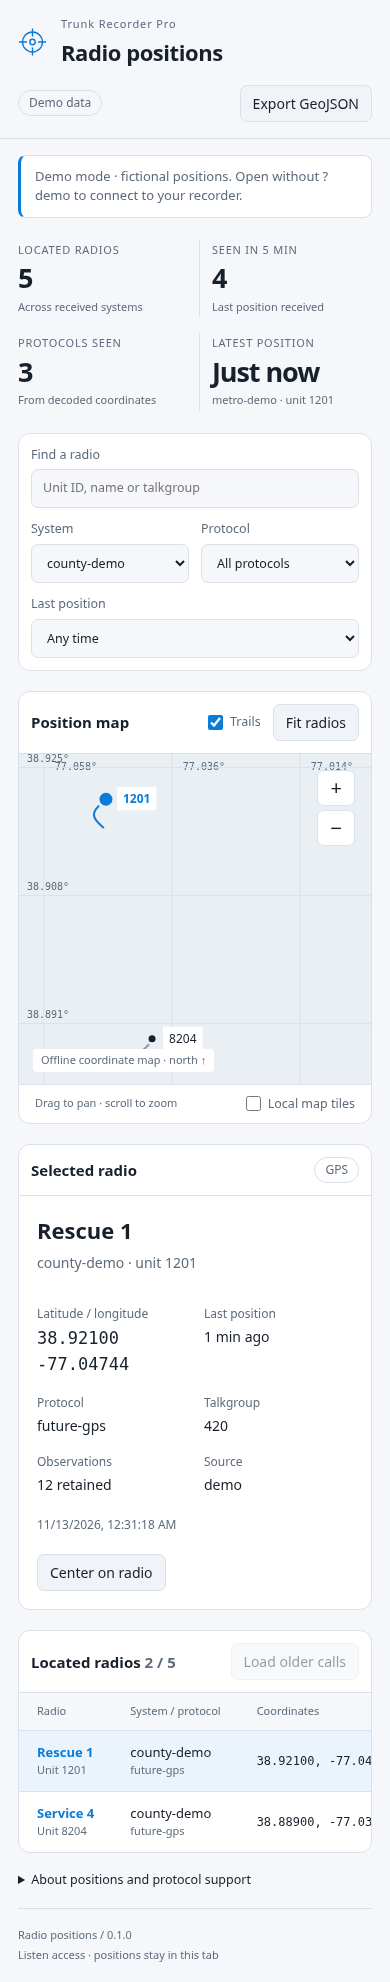
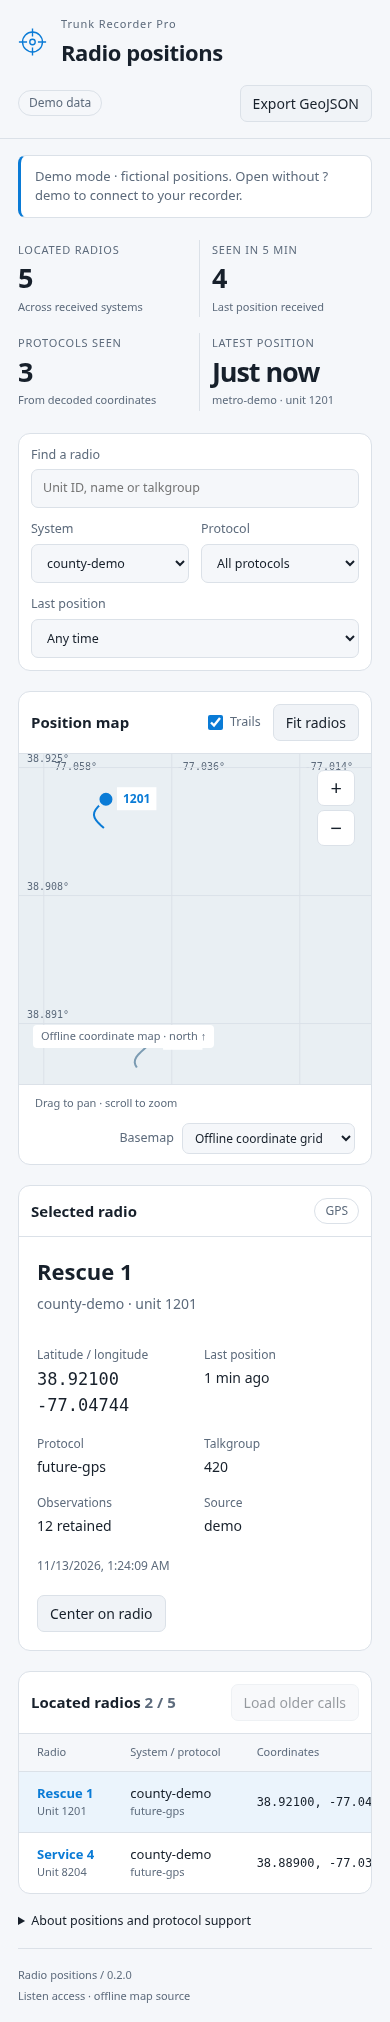
Load OpenStreetMap basemap by default with offline fallback

diff --git a/index.html b/index.html
@@ -4,6 +4,7 @@
   <meta charset="utf-8">
   <meta name="viewport" content="width=device-width, initial-scale=1">
   <meta name="color-scheme" content="dark light">
+  <meta name="referrer" content="strict-origin-when-cross-origin">
   <title>Radio positions · Trunk Recorder Pro</title>
   <link rel="stylesheet" href="./style.css">
 </head>
@@ -29,8 +30,8 @@
     <div class="workspace">
       <section class="map-panel" aria-label="Position map">
         <div class="panel-head"><h2>Position map</h2><div class="actions"><label class="toggle"><input id="trails" type="checkbox" checked>Trails</label><button id="fit">Fit radios</button></div></div>
-        <div class="map-wrap"><canvas id="map" tabindex="0" aria-label="GPS coordinate map. Drag to pan; plus and minus to zoom; arrow keys to pan. Select radios from the list below."></canvas><div id="map-empty" class="map-empty"><div class="crosshair">⌖</div><h2>No positions yet</h2><p>GPS fixes from live logs and recorded calls will appear here.</p></div><div class="zoom"><button id="zoom-in" aria-label="Zoom in">+</button><button id="zoom-out" aria-label="Zoom out">−</button></div><span class="map-label">Offline coordinate map · north ↑</span></div>
-        <div class="map-footer"><span>Drag to pan · scroll to zoom</span><label class="toggle"><input id="tiles" type="checkbox">Local map tiles</label></div>
+        <div class="map-wrap"><canvas id="map" tabindex="0" aria-label="GPS coordinate map. Drag to pan; plus and minus to zoom; arrow keys to pan. Select radios from the list below."></canvas><div id="map-empty" class="map-empty"><div class="crosshair">⌖</div><h2>No positions yet</h2><p>GPS fixes from live logs and recorded calls will appear here.</p></div><div class="zoom"><button id="zoom-in" aria-label="Zoom in">+</button><button id="zoom-out" aria-label="Zoom out">−</button></div><span id="map-label" class="map-label" role="status">OpenStreetMap · waiting for positions</span><a id="attribution" class="map-attribution" href="https://www.openstreetmap.org/copyright" target="_blank" rel="noopener">© OpenStreetMap contributors</a></div>
+        <div class="map-footer"><span>Drag to pan · scroll to zoom</span><div class="actions"><button id="retry-tiles" hidden>Retry tiles</button><label class="basemap-choice">Basemap<select id="basemap"><option value="osm">OpenStreetMap (online)</option><option value="none">Offline coordinate grid</option><option value="local">Local map tiles</option></select></label></div></div>
       </section>
       <aside class="detail-panel"><div class="panel-head"><h2>Selected radio</h2><span class="chip">GPS</span></div><div id="details" class="details"><p class="muted">Select a radio to see its coordinates and recent trail.</p></div></aside>
     </div>
@@ -38,8 +39,8 @@
       <div class="table-scroll"><table><thead><tr><th>Radio</th><th>System / protocol</th><th>Coordinates</th><th>Talkgroup</th><th>Last position</th><th>Source</th></tr></thead><tbody id="radios"></tbody></table></div>
       <p id="list-empty" class="empty">No GPS positions received. Keep the recorder running on a system that sends GPS.</p>
     </section>
-    <details class="help"><summary>About positions and protocol support</summary><p>Only coordinates actually decoded by the recorder are shown. The current recorder decodes Motorola P25 Phase 1 and L3Harris P25 Phase 1/2 GPS. Other protocols appear automatically when their decoders provide coordinates. An unknown protocol label does not prevent a valid fix from appearing.</p><p>Live positions use the recorder’s position log. Their times are approximate; recorded positions use the source transmission time. Trails hold up to 200 observations per radio and 1,000 radios in this tab. Closing or reloading clears this session; the recorder’s recent call history is loaded again on connection.</p><p>The map works offline without street imagery. To add a street basemap, place licensed XYZ PNG tiles at <code>tiles/{z}/{x}/{y}.png</code> in this folder, then enable Local map tiles. Missing tiles leave the coordinate grid visible. No external map service is contacted.</p></details>
-    <footer><span>Radio positions <span class="muted">/ 0.1.0</span></span><span id="diagnostics">Listen access · positions stay in this tab</span></footer>
+    <details class="help"><summary>About positions and protocol support</summary><p>Only coordinates actually decoded by the recorder are shown. The current recorder decodes Motorola P25 Phase 1 and L3Harris P25 Phase 1/2 GPS. Other protocols appear automatically when their decoders provide coordinates. An unknown protocol label does not prevent a valid fix from appearing.</p><p>Live positions use the recorder’s position log. Their times are approximate; recorded positions use the source transmission time. Trails hold up to 200 observations per radio and 1,000 radios in this tab. Closing or reloading clears this session; the recorder’s recent call history is loaded again on connection.</p><p>OpenStreetMap street tiles load automatically with no account or API key. Map data is © OpenStreetMap contributors, available under the ODbL. The tile service receives your IP address and the map area you view; radio IDs, names and GPS records are not sent. Choose Offline coordinate grid to stop online tile requests, or Local map tiles to use your own licensed imagery. If online tiles fail, the coordinate grid and radios remain usable. <a href="https://operations.osmfoundation.org/policies/tiles/" target="_blank" rel="noopener">Tile usage policy</a> · <a href="https://www.openstreetmap.org/fixthemap" target="_blank" rel="noopener">Report a map issue</a></p></details>
+    <footer><span>Radio positions <span class="muted">/ 0.2.0</span></span><span id="diagnostics">Listen access · positions stay in this tab</span></footer>
   </main>
   <script type="module" src="./app.js"></script>
 </body>

diff --git a/map.js b/map.js
@@ -1,4 +1,5 @@
 import { unitKey } from "./positions.js";
+import { basemapMode, tileUrl } from "./basemaps.js";
 
 export function project(lon, lat) {
   const a = Math.max(-85.05112878, Math.min(85.05112878, lat)) * Math.PI / 180;
@@ -10,7 +11,7 @@ export function unproject(x, y) {
 const wrap = (x) => x - Math.round(x);
 
 export class PositionMap {
-  constructor(canvas, onSelect) {
+  constructor(canvas, onSelect, onBasemapStatus = () => {}) {
     this.canvas = canvas;
     this.ctx = canvas.getContext("2d");
     this.center = [.5, .5];
@@ -18,6 +19,8 @@ export class PositionMap {
     this.points = [];
     this.tiles = new Map();
     this.onSelect = onSelect;
+    this.onBasemapStatus = onBasemapStatus;
+    this.basemap = "osm";
     new ResizeObserver(() => this.draw()).observe(canvas);
     matchMedia("(prefers-color-scheme: light)").addEventListener("change", () => this.draw());
     canvas.addEventListener("wheel", (e) => { e.preventDefault(); this.zoomBy(e.deltaY > 0 ? -1 : 1); }, { passive: false });
@@ -81,8 +84,17 @@ export class PositionMap {
       Math.max(100, this.height - 120) / (256 * Math.max(maxY - minY, .00001)))))));
     this.draw();
   }
-  update(points, store, selected, trails, localTiles) {
-    Object.assign(this, { points, store, selected, trails, localTiles });
+  update(points, store, selected, trails, basemap) {
+    Object.assign(this, { points, store, selected, trails, basemap: basemapMode(basemap) });
+    this.draw();
+  }
+  scheduleDraw() {
+    if (this.drawPending) return;
+    this.drawPending = true;
+    requestAnimationFrame(() => { this.drawPending = false; this.draw(); });
+  }
+  retryFailedTiles() {
+    for (const [key, img] of this.tiles) if (img.failed) this.tiles.delete(key);
     this.draw();
   }
   draw() {
@@ -96,18 +108,20 @@ export class PositionMap {
     const style = getComputedStyle(document.documentElement);
     const color = (name) => style.getPropertyValue(name).trim();
     c.fillStyle = color("--map-bg"); c.fillRect(0, 0, this.width, this.height);
-    if (this.localTiles) this.drawTiles();
+    const tiles = this.basemap !== "none" && this.points.length ? this.drawTiles() : { ready: 0, failed: 0, loading: 0 };
+    this.onBasemapStatus({ mode: this.basemap, ...tiles });
     c.strokeStyle = color("--line"); c.lineWidth = 1;
     c.fillStyle = color("--muted"); c.font = "10px ui-monospace, monospace";
     // Grid stays geographically anchored while panning and zooming.
     const step = 2 ** Math.ceil(Math.log2(100 / this.scale));
     const left = this.center[0] - this.width / 2 / this.scale, top = this.center[1] - this.height / 2 / this.scale;
-    for (let x = Math.ceil(left / step) * step; x <= left + this.width / this.scale; x += step) {
+    // The coordinate grid fills in when imagery is absent.
+    if (!tiles.ready) for (let x = Math.ceil(left / step) * step; x <= left + this.width / this.scale; x += step) {
       const px = (x - left) * this.scale;
       c.beginPath(); c.moveTo(px, 0); c.lineTo(px, this.height); c.stroke();
       c.fillText(`${unproject(x, .5)[0].toFixed(this.zoom > 10 ? 3 : 1)}°`, px + 5, 16);
     }
-    for (let y = Math.ceil(top / step) * step; y <= top + this.height / this.scale; y += step) {
+    if (!tiles.ready) for (let y = Math.ceil(top / step) * step; y <= top + this.height / this.scale; y += step) {
       if (y < 0 || y > 1) continue;
       const py = (y - top) * this.scale;
       c.beginPath(); c.moveTo(0, py); c.lineTo(this.width, py); c.stroke();
@@ -141,19 +155,30 @@ export class PositionMap {
   }
   drawTiles() {
     const c = this.ctx, n = 2 ** this.zoom;
+    const result = { ready: 0, failed: 0, loading: 0 };
     const left = this.center[0] * n - this.width / 512, top = this.center[1] * n - this.height / 512;
     for (let x = Math.floor(left); x < left + this.width / 256; x++) for (let y = Math.floor(top); y < top + this.height / 256; y++) {
       if (y < 0 || y >= n) continue;
-      const key = `${this.zoom}/${((x % n) + n) % n}/${y}`;
+      const key = tileUrl(this.basemap, this.zoom, x, y);
+      if (!key) continue;
       if (!this.tiles.has(key)) {
         const img = new Image();
         this.tiles.set(key, img);
-        img.onload = () => { if (this.localTiles) this.draw(); };
-        img.src = `./tiles/${key}.png`;
+        // Normal browser caching honors HTTP cache headers. Never cache-bust,
+        // send no-cache headers, or offer an area download mode.
+        img.referrerPolicy = "strict-origin-when-cross-origin";
+        img.onload = () => this.scheduleDraw();
+        img.onerror = () => { img.failed = true; this.scheduleDraw(); };
+        img.src = key;
         if (this.tiles.size > 256) this.tiles.delete(this.tiles.keys().next().value);
       }
       const img = this.tiles.get(key);
-      if (img.complete && img.naturalWidth) c.drawImage(img, (x - left) * 256, (y - top) * 256, 256, 256);
+      if (img.complete && img.naturalWidth) {
+        c.drawImage(img, (x - left) * 256, (y - top) * 256, 256, 256);
+        result.ready++;
+      } else if (img.failed) result.failed++;
+      else result.loading++;
     }
+    return result;
   }
 }

diff --git a/app.js b/app.js
@@ -1,13 +1,25 @@
 import { PositionStore, unitKey, recordedPositions, livePositions } from "./positions.js";
 import { additionalAdapters } from "./adapters.js";
 import { PositionMap } from "./map.js";
+import { BASEMAPS, readBasemapPreference, saveBasemapPreference } from "./basemaps.js";
 
 const $ = (id) => document.getElementById(id);
 const store = new PositionStore({ adapters: [recordedPositions, livePositions, ...additionalAdapters] });
 const demo = new URLSearchParams(location.search).has("demo");
 let rec, selected, visible = [], nextCursor, pending, requestId = 10000, scheduled = false;
 let error = "", fitted = false;
-const map = new PositionMap($("map"), select);
+let storage;
+try { storage = window.localStorage; } catch { /* Preferences are optional. */ }
+$("basemap").value = readBasemapPreference(storage);
+function basemapStatus({ mode, ready, failed, loading }) {
+  const source = BASEMAPS[mode];
+  $("attribution").hidden = mode !== "osm";
+  $("retry-tiles").hidden = !failed;
+  $("map-label").textContent = mode === "none" ? "Offline coordinate map · north ↑" :
+    ready ? `${source.name} · north ↑` : loading ? `${source.name} · loading tiles…` :
+      failed ? `${source.name} unavailable · coordinate grid shown` : `${source.name} · waiting for positions`;
+}
+const map = new PositionMap($("map"), select, basemapStatus);
 const esc = (s) => String(s ?? "").replace(/[&<>"']/g, (c) => ({ "&": "&amp;", "<": "&lt;", ">": "&gt;", '"': "&quot;", "'": "&#39;" }[c]));
 const label = (p) => ({ p25: "P25", p25_phase2: "P25 Phase 2", dmr: "DMR", nxdn: "NXDN", nxdn48: "NXDN48", nxdn96: "NXDN96", unknown: "Unknown", conventional: "Conventional" }[p] || p);
 const name = (p) => rec?.unitName(p.system, p.unit) || p.name || `Unit ${p.unit}`;
@@ -85,9 +97,10 @@ function draw() {
     <p class="detail-note">${esc(new Date(p.time).toLocaleString())}${p.estimatedTime ? " · approximate observation time" : ""}</p>
     <button id="center">Center on radio</button>` : '<p class="muted">Select a radio to see its coordinates and recent trail.</p>';
   if ($("center")) $("center").onclick = () => map.focus(p);
-  map.update(visible, store, selected, $("trails").checked, $("tiles").checked);
-  if (!fitted && visible.length) { map.fit(); fitted = true; }
-  $("diagnostics").textContent = store.adapterErrors ? `${store.adapterErrors} adapter errors · check adapters.js` : "Listen access · positions stay in this tab";
+  if (!fitted && visible.length) { map.fit(visible); fitted = true; }
+  map.update(visible, store, selected, $("trails").checked, $("basemap").value);
+  $("diagnostics").textContent = store.adapterErrors ? `${store.adapterErrors} adapter errors · check adapters.js` :
+    $("basemap").value === "osm" ? "Listen access · map tiles from OpenStreetMap" : "Listen access · offline map source";
 }
 $("filters").onsubmit = (e) => e.preventDefault();
 $("filters").oninput = queueDraw;
@@ -99,7 +112,8 @@ $("fit").onclick = () => map.fit();
 $("zoom-in").onclick = () => map.zoomBy(1);
 $("zoom-out").onclick = () => map.zoomBy(-1);
 $("trails").onchange = queueDraw;
-$("tiles").onchange = queueDraw;
+$("basemap").onchange = () => { saveBasemapPreference(storage, $("basemap").value); queueDraw(); };
+$("retry-tiles").onclick = () => map.retryFailedTiles();
 $("export").onclick = () => {
   const data = store.geoJSON(visible.map(unitKey));
   const url = URL.createObjectURL(new Blob([JSON.stringify(data, null, 2)], { type: "application/geo+json" }));

diff --git a/tests/basemaps.test.js b/tests/basemaps.test.js
@@ -1,0 +1,57 @@
+import test from "node:test";
+import assert from "node:assert/strict";
+import { BASEMAPS, basemapMode, tileUrl, readBasemapPreference, saveBasemapPreference } from "../basemaps.js";
+import { PositionMap } from "../map.js";
+
+test("OSM is the default, with official HTTPS URL and attribution", () => {
+  assert.equal(basemapMode(null), "osm");
+  assert.equal(basemapMode("__proto__"), "osm");
+  assert.equal(basemapMode("none"), "none");
+  assert.equal(tileUrl("osm", 3, 2, 4), "https://tile.openstreetmap.org/3/2/4.png");
+  assert.equal(BASEMAPS.osm.copyright, "https://www.openstreetmap.org/copyright");
+});
+test("tile addressing wraps longitude, clips latitude and never requests tiles for the offline grid", () => {
+  assert.equal(tileUrl("osm", 3, -1, 0), "https://tile.openstreetmap.org/3/7/0.png");
+  assert.equal(tileUrl("local", 3, 8, 1), "./tiles/3/0/1.png");
+  assert.equal(tileUrl("none", 3, 0, 1), null);
+  for (const coords of [[3, 0, -1], [3, 0, 8], [19, 0, 1], [3, 1.5, 1]]) {
+    assert.equal(tileUrl("osm", ...coords), null);
+  }
+});
+test("basemap preference survives reload and blocked storage remains optional", () => {
+  let value;
+  const storage = { getItem: () => value, setItem: (_, v) => { value = v; } };
+  assert.equal(readBasemapPreference(storage), "osm");
+  saveBasemapPreference(storage, "none");
+  assert.equal(readBasemapPreference(storage), "none");
+  assert.equal(readBasemapPreference(undefined), "osm");
+  assert.doesNotThrow(() => saveBasemapPreference(undefined, "local"));
+});
+test("tile drawing reuses cache and isolates sources; failed tiles retry only on request", () => {
+  const previousImage = globalThis.Image;
+  const created = [];
+  globalThis.Image = class {
+    constructor() { this.complete = false; this.naturalWidth = 0; created.push(this); }
+  };
+  try {
+    const view = { zoom: 3, width: 300, height: 250, center: [.5, .5],
+      basemap: "osm", tiles: new Map(), ctx: { drawImage() {} }, scheduleDraw() {}, draw() {} };
+    let result = PositionMap.prototype.drawTiles.call(view);
+    const count = created.length;
+    assert.ok(count > 0 && count <= 4);
+    assert.equal(result.loading, count);
+    assert.ok(created.every((img) => img.referrerPolicy === "strict-origin-when-cross-origin"));
+    PositionMap.prototype.drawTiles.call(view);
+    assert.equal(created.length, count);
+    created.forEach((img) => img.onerror());
+    result = PositionMap.prototype.drawTiles.call(view);
+    assert.equal(result.failed, count);
+    assert.equal(created.length, count);
+    PositionMap.prototype.retryFailedTiles.call(view);
+    PositionMap.prototype.drawTiles.call(view);
+    assert.equal(created.length, count * 2);
+    view.basemap = "local";
+    PositionMap.prototype.drawTiles.call(view);
+    assert.ok(created.at(-1).src.startsWith("./tiles/"));
+  } finally { globalThis.Image = previousImage; }
+});

diff --git a/style.css b/style.css
@@ -4,3 +4,6 @@
 @media(max-width:900px){.workspace{grid-template-columns:minmax(0,1fr) 250px}.topbar,main{padding-left:18px;padding-right:18px}.filters{flex-wrap:wrap}.filters label{flex:1 1 35%}.stats{gap:8px}.stats>div{padding-left:12px}.stats small{font-size:11px}}
 @media(max-width:640px){.topbar{align-items:flex-start;flex-direction:column;padding-top:16px;padding-bottom:16px}.topbar .actions{width:100%;justify-content:space-between}.stats{grid-template-columns:repeat(2,1fr);row-gap:16px}.stats>div:nth-child(3){border:0;padding-left:0}.stats strong{font-size:27px}.workspace{grid-template-columns:minmax(0,1fr)}.map-wrap{height:330px}.filters{gap:12px;padding:12px}.filters label{flex:1 1 40%}.filters .search{flex:1 1 100%}.details dl{display:grid;grid-template-columns:1fr 1fr;gap:0 18px}.details dl div{min-width:0}.details button{width:auto}.map-footer{flex-wrap:wrap}.panel-head{padding:12px}footer{flex-direction:column;gap:4px}.brand svg{width:29px}main{padding-top:16px}}
 @media(prefers-reduced-motion:reduce){*{scroll-behavior:auto}}
+
+.map-attribution{position:absolute;bottom:10px;right:10px;padding:3px 7px;border-radius:4px;background:var(--panel);color:var(--text);font-size:11px;z-index:1}.map-attribution[hidden],#retry-tiles[hidden]{display:none}.map-label{bottom:36px;max-width:calc(100% - 22px)}.basemap-choice{display:flex;gap:8px;align-items:center}.basemap-choice select{display:inline-block;width:auto;margin:0;padding:5px 8px;font-size:12px}.map-footer{align-items:center}.help a{color:var(--accent)}#retry-tiles{font-size:12px;padding:4px 8px}
+@media(max-width:640px){.map-footer>.actions{width:100%;justify-content:flex-end}.basemap-choice select{max-width:210px}}

diff --git a/basemaps.js b/basemaps.js
@@ -1,0 +1,24 @@
+// Only request tiles inside the current viewport. Never prefetch areas.
+export const BASEMAPS = {
+  osm: {
+    name: "OpenStreetMap",
+    template: "https://tile.openstreetmap.org/{z}/{x}/{y}.png",
+    attribution: "© OpenStreetMap contributors",
+    copyright: "https://www.openstreetmap.org/copyright",
+  },
+  local: { name: "Local tiles", template: "./tiles/{z}/{x}/{y}.png" },
+  none: { name: "Offline grid" },
+};
+export const basemapMode = (mode) => Object.hasOwn(BASEMAPS, mode) ? mode : "osm";
+export function tileUrl(mode, z, x, y) {
+  const template = BASEMAPS[mode]?.template;
+  if (!template || ![z, x, y].every(Number.isInteger) || z < 0 || z > 18 || y < 0 || y >= 2 ** z) return null;
+  const wrappedX = ((x % 2 ** z) + 2 ** z) % 2 ** z;
+  return template.replace("{z}", z).replace("{x}", wrappedX).replace("{y}", y);
+}
+export function readBasemapPreference(storage) {
+  try { return basemapMode(storage.getItem("radio-positions-basemap")); } catch { return "osm"; }
+}
+export function saveBasemapPreference(storage, mode) {
+  try { storage.setItem("radio-positions-basemap", basemapMode(mode)); } catch { /* Optional convenience. */ }
+}

diff --git a/README.md b/README.md
@@ -2,9 +2,10 @@
 
 A self-contained GPS tracking interface for Trunk Recorder Pro, made against
 the repository's API 1 on `main` (November 2026). Plain HTML, CSS and JavaScript;
-no build, dependencies, CDN, external map service or recorder changes.
+no build, runtime dependencies, API keys or recorder changes. OpenStreetMap
+street tiles load automatically; an offline coordinate grid remains available.
 
-![Fictional demo positions](screenshots/desktop.png)
+![Fictional demo positions using the offline coordinate grid](screenshots/desktop.png)
 
 ## Run
 
@@ -53,8 +54,9 @@ for a transmission; archived trails cannot reconstruct fixes that were not saved
 The interface keeps up to 1,000 radios and 200 observations per radio in memory.
 Reloading clears these observations, then reloads recent recorder history.
 **Export GeoJSON** downloads retained observations for radios matching the
-current filters (their full retained trails, including older points). Nothing
-is persisted in browser storage or transmitted to a third party.
+current filters (their full retained trails, including older points). Radio
+records stay in this tab and are not sent to the map service. Only the basemap
+selection is saved in browser storage when available.
 
 ## Map
 
@@ -63,10 +65,35 @@ markers, keyboard controls and trails. It works offline, including without map
 imagery. Latitude is displayed exactly; polar map positions clamp to Mercator's
 85.0511° limit. Use the radio list as the accessible equivalent to canvas markers.
 
-For a street basemap, supply appropriately licensed XYZ PNG tiles under
-`tiles/{z}/{x}/{y}.png`, including any required attribution in `index.html`, then
-enable **Local map tiles**. Only this relative path is requested, never an
-external provider. Missing tiles leave the grid visible. Tile data is not bundled.
+**OpenStreetMap (online)** is the default: streets and place names appear
+without setup, an account, payment or an API key. Attribution is always visible
+on the map: [© OpenStreetMap contributors](https://www.openstreetmap.org/copyright).
+The map data is openly licensed under the **Open Database License (ODbL)**;
+it is not license-free. This application's code remains GPL-3.0-or-later.
+
+Street tiles come directly from `https://tile.openstreetmap.org/{z}/{x}/{y}.png`.
+They need internet access. The service receives the viewer's IP address, origin,
+and tile coordinates identifying the viewed map area; radio IDs, names, and
+GPS record payloads are not included in tile requests. Choosing **Offline
+coordinate grid** stops new online tile requests. The selection is remembered
+when browser storage is available, including across interface upgrades on the
+same origin. Map coordinates and records are not saved in browser storage.
+
+The [OSMF tile usage policy](https://operations.osmfoundation.org/policies/tiles/)
+applies. The public service is community funded, best effort, and may limit or
+block heavy use; it is not a guaranteed unlimited tile hosting service. We
+request only the visible viewport after positions arrive, use ordinary browser
+HTTP caching and a valid browser referrer, and do not prefetch or offer offline
+area downloads. Failed tiles leave the grid and radios usable, with a
+**Retry tiles** button for recovery. No repeated automatic retry loop is used.
+For high-volume deployments, configure an appropriate provider in `basemaps.js`
+and update its attribution in `index.html` before distributing that change.
+
+**Local map tiles** remains available for disconnected deployments. Supply
+appropriately licensed XYZ PNG tiles under `tiles/{z}/{x}/{y}.png`, add their
+required attribution to `index.html`, and select that basemap. Do not bulk
+download the public OSM tile service to populate this folder. Tile data is not
+bundled with the release.
 
 ## Add a future protocol
 
@@ -138,7 +165,9 @@ environment (`PLAYWRIGHT_MODULE` may point at its absolute module path).
 `GPS_PREVIEW_URL` overrides the local preview address. The test uses the real
 project client against a simulated recorder WebSocket; it needs Chromium at
 `/usr/bin/chromium`. It checks live GPS, log subscription, history pagination,
-filters, export, HTML escaping, and phone layout. Production uses none of these
+filters, export, HTML escaping, basemap switching, caching, attribution, failed
+tile fallback, saved preferences, and phone layout. All browser-test map tiles
+are intercepted locally; automated tests do not contact the public tile service. Production uses none of these
 test dependencies. Live hardware reception was not tested in this environment.
 
 License: GPL-3.0-or-later, as in Trunk Recorder Pro.
